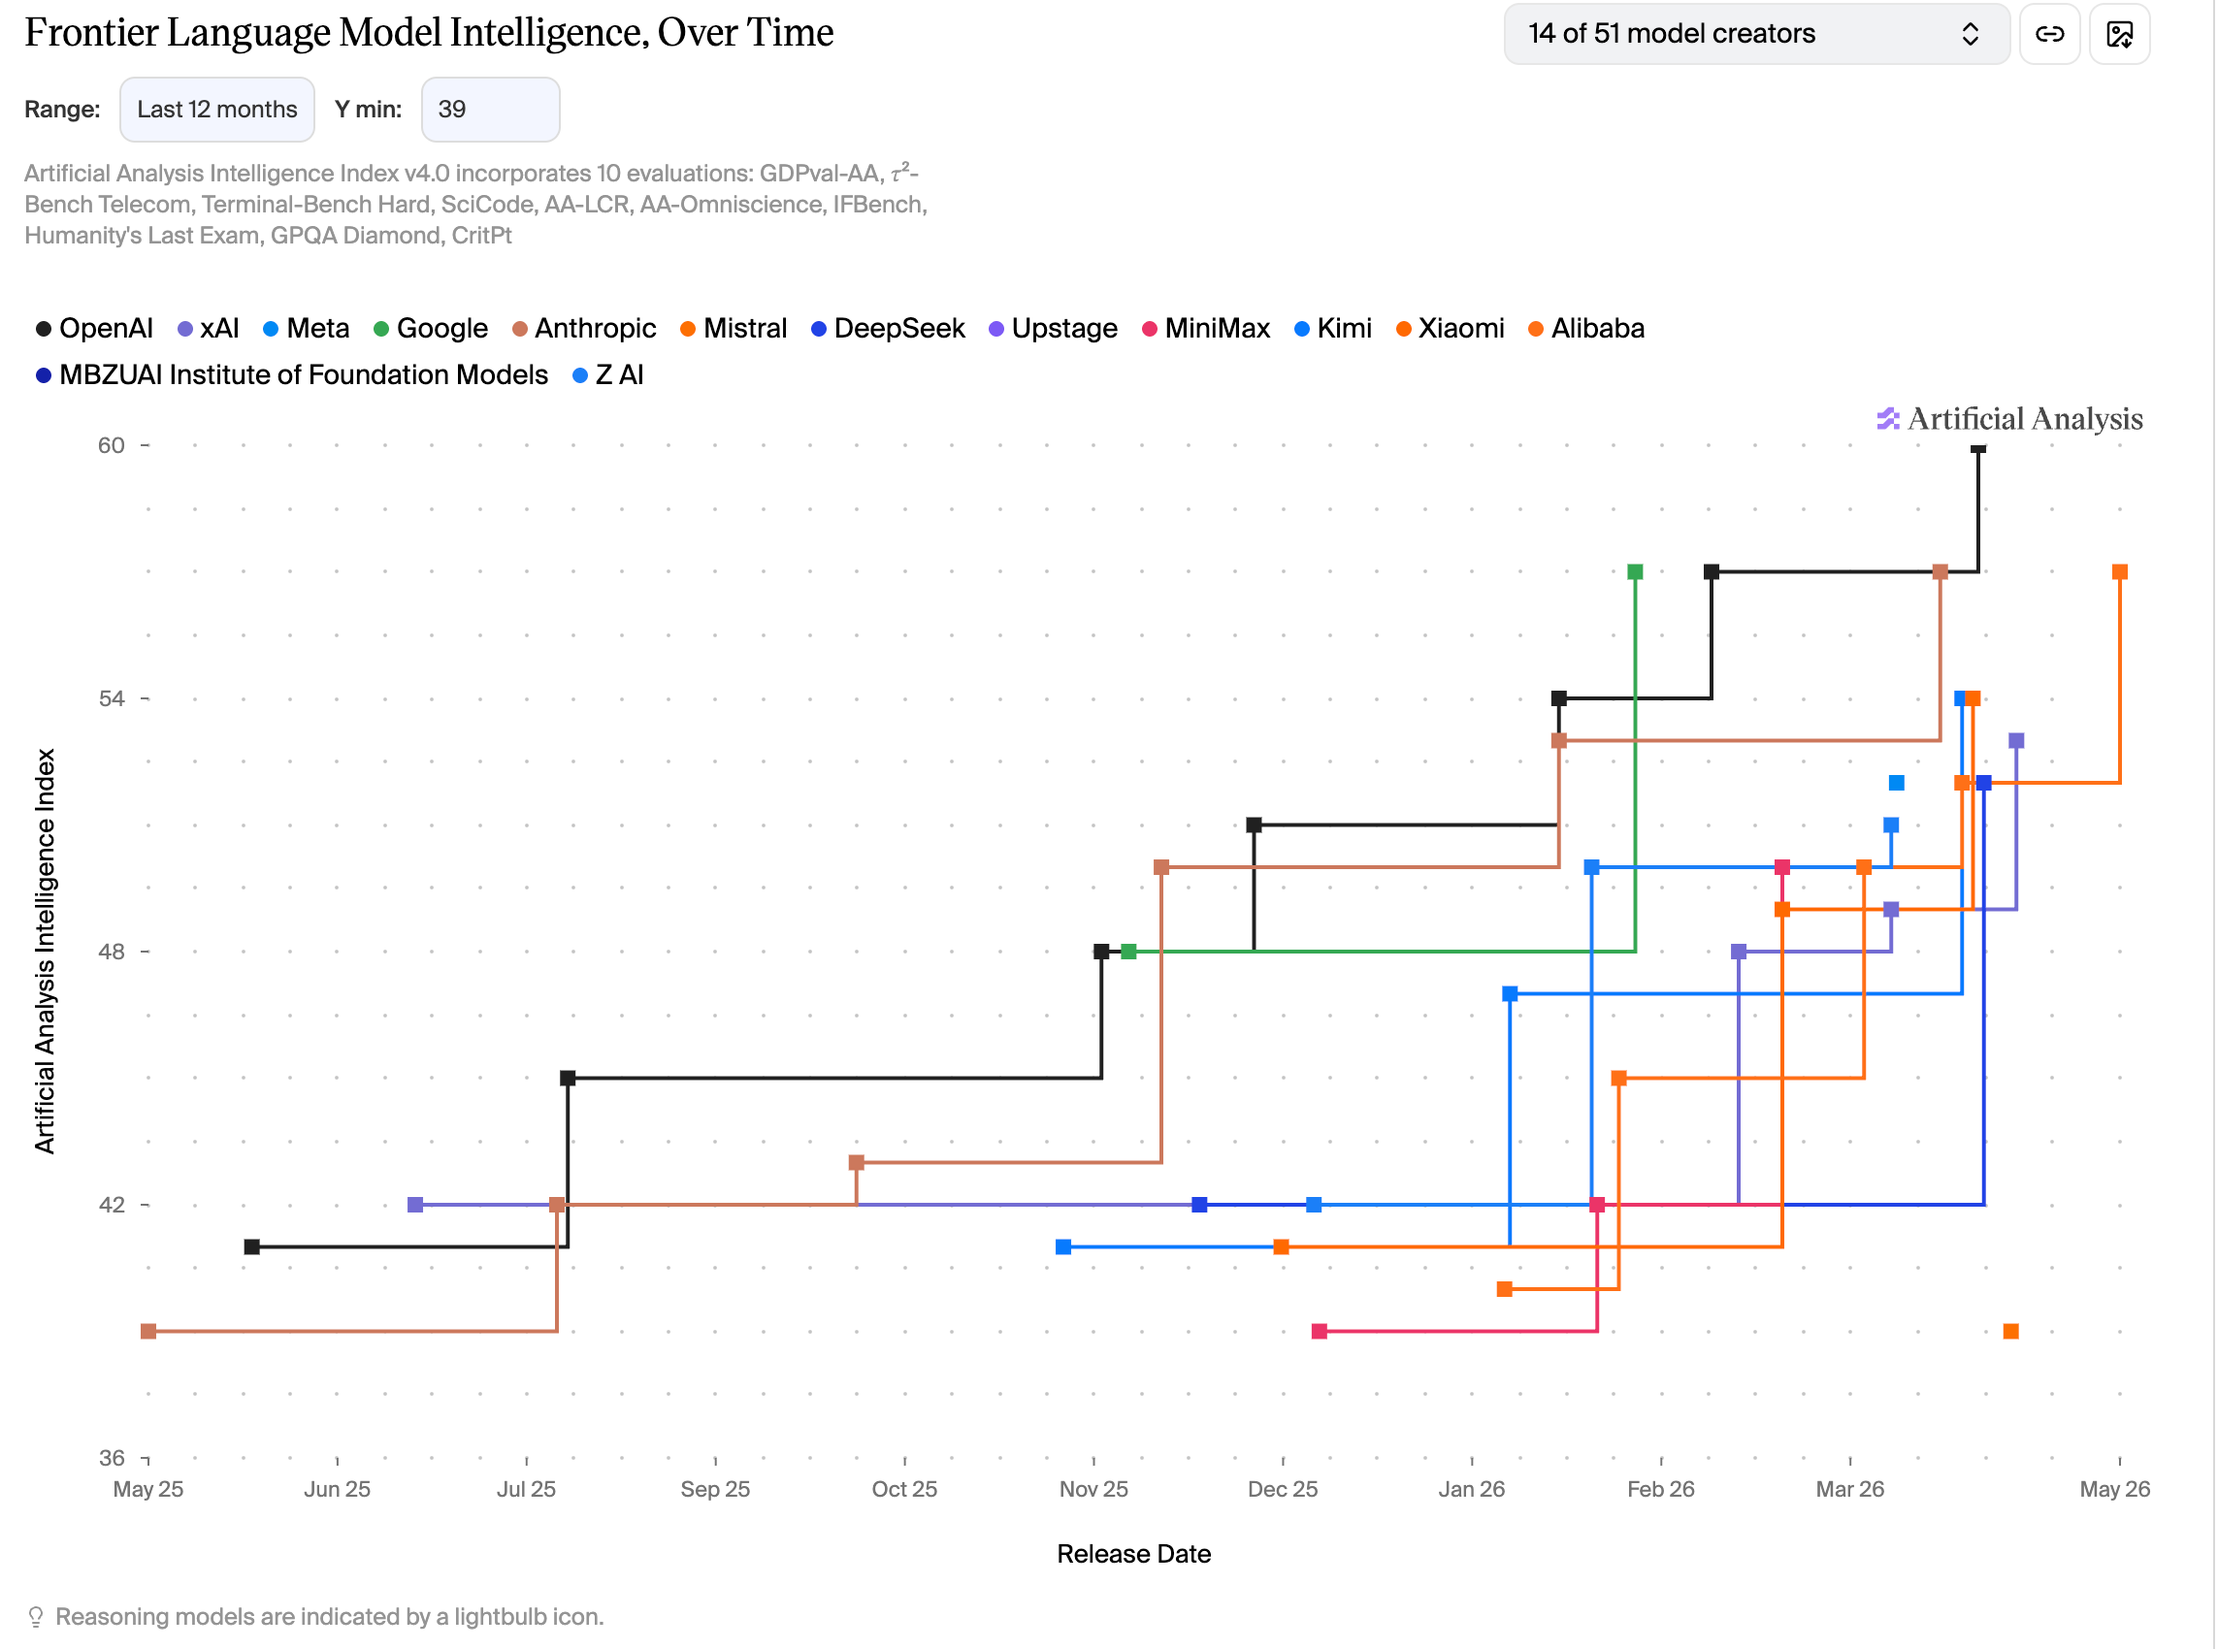
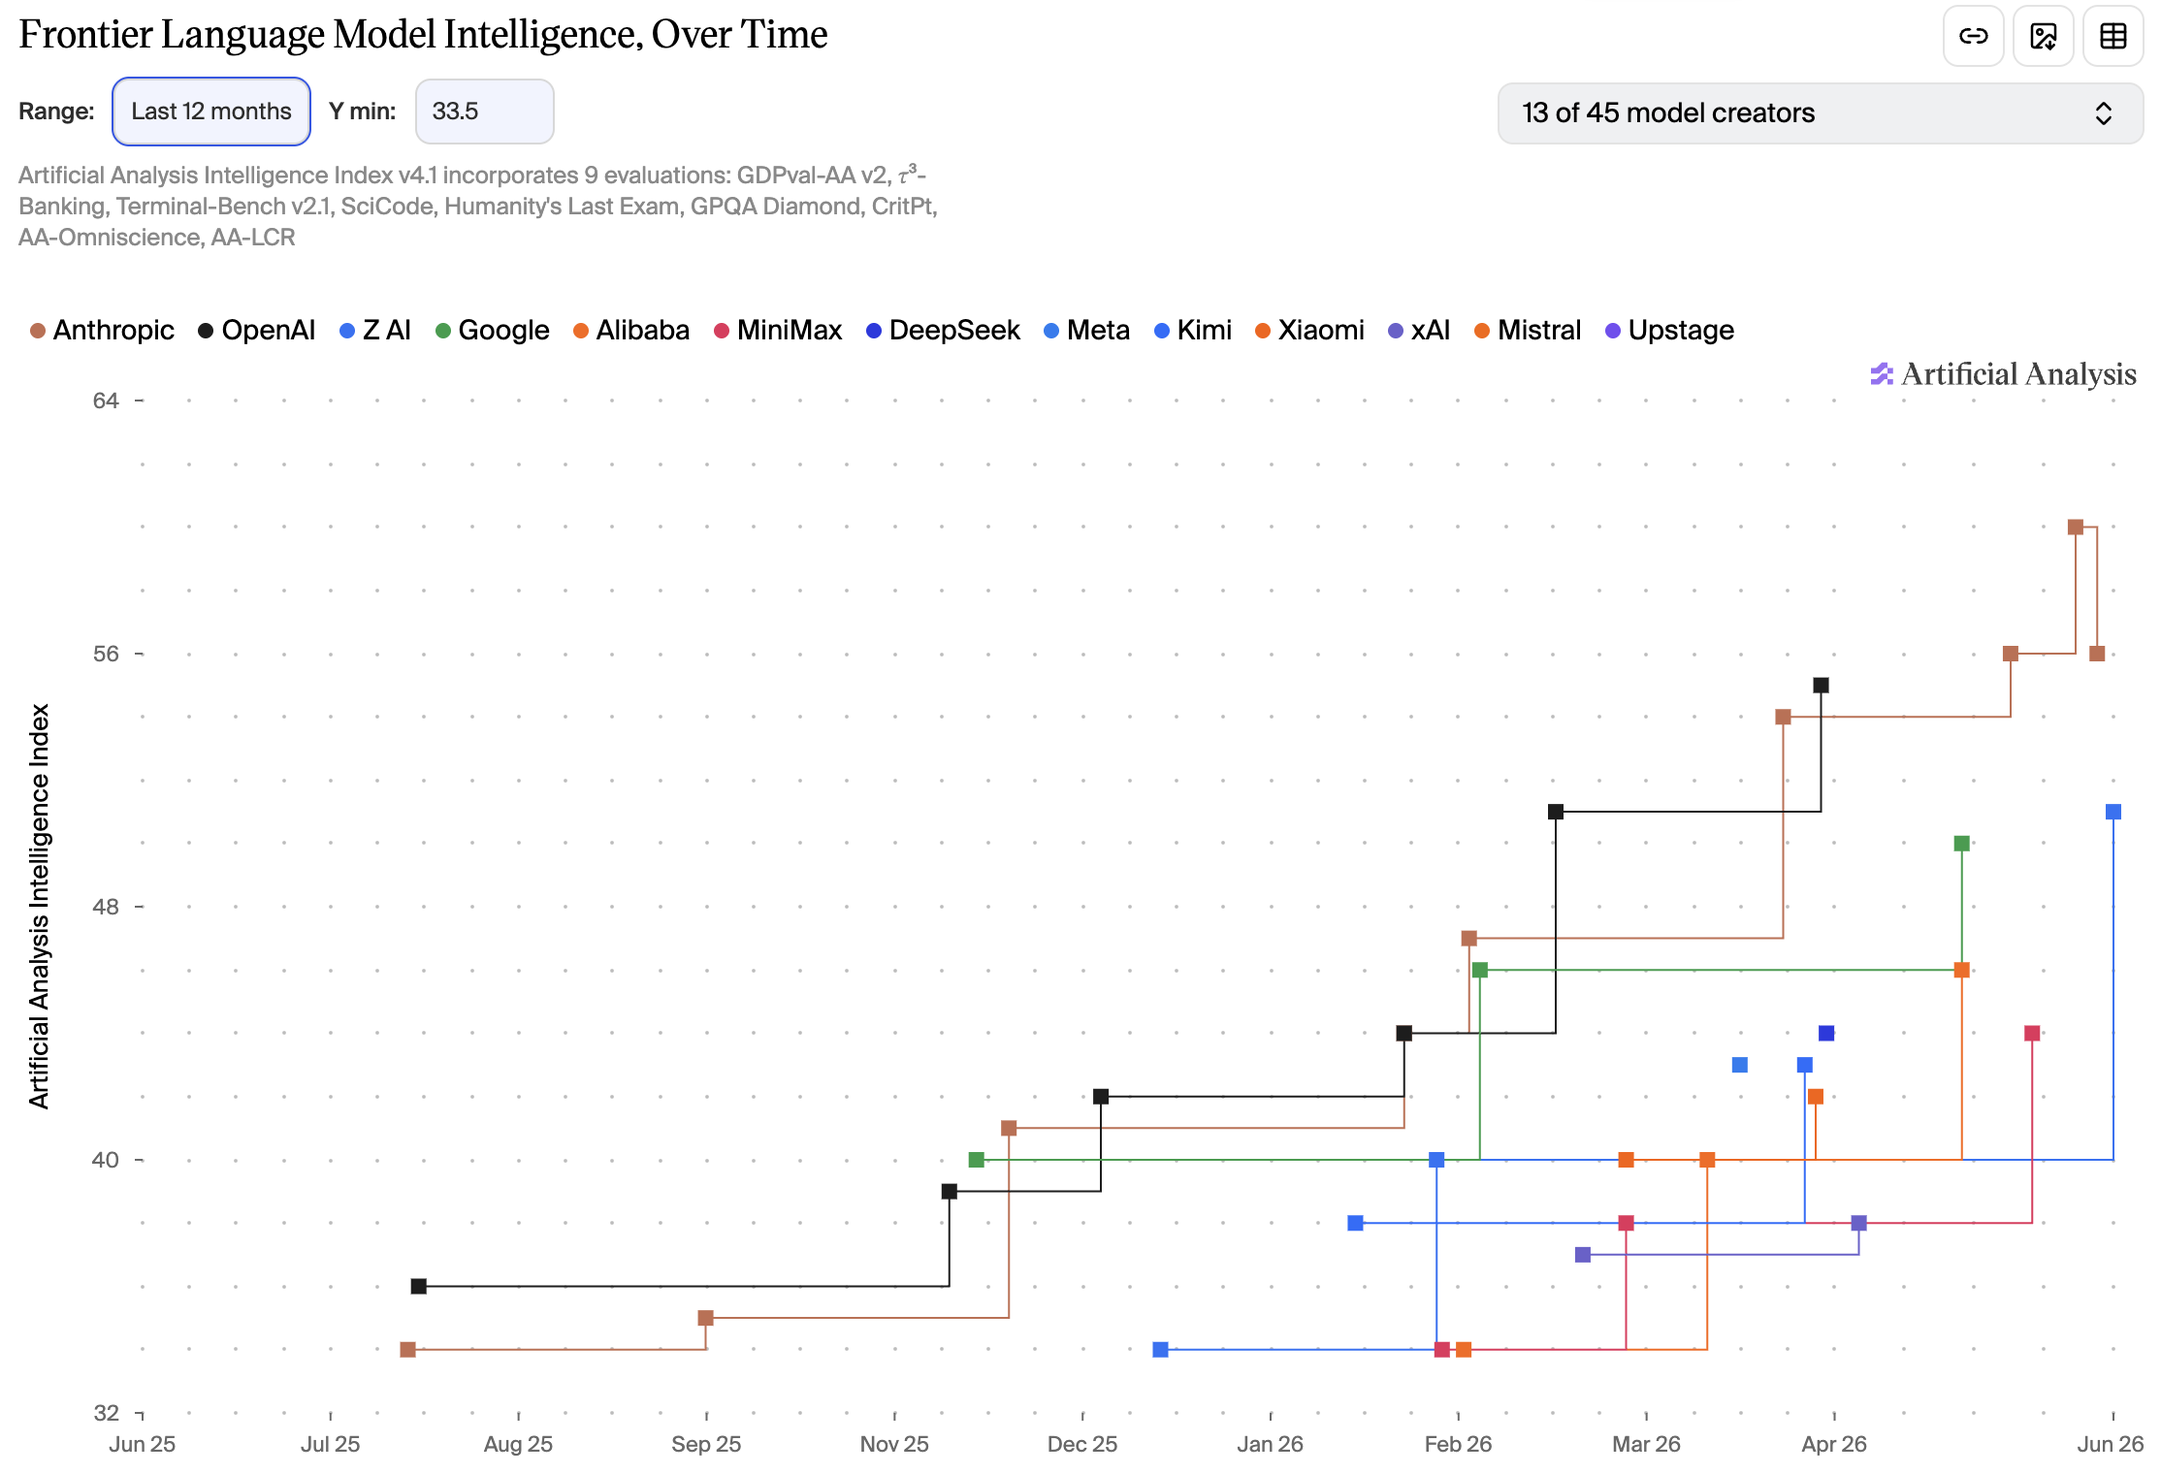
fix: update Y-axis minimum value and improve data filtering logic in userscript

diff --git a/artificialanalysis.js b/artificialanalysis.js
@@ -1,13 +1,13 @@
 // ==UserScript==
 // @name         Artificial Analysis - Frontier Chart Controls
 // @namespace    https://artificialanalysis.ai/
-// @version      2.3
-// @description  Local controls for the Frontier chart: time range / Y-axis range. Defaults to last 3 months, Y-axis 39~max, chart height 700px. Built for the Recharts version.
+// @version      2.5
+// @description  Local controls for the Frontier chart: time range / Y-axis range. Defaults to last 12 months, Y-axis 33.5~max, chart height 600px. Built for the Recharts (v3) version.
 // @match        https://artificialanalysis.ai/*
 // @run-at       document-idle
 // @grant        none
-// @updateURL    https://raw.githubusercontent.com/henrycjchen/artificialanalysis-tampermonkey/main/artificialanalysis.js
-// @downloadURL  https://raw.githubusercontent.com/henrycjchen/artificialanalysis-tampermonkey/main/artificialanalysis.js
+// @downloadURL https://update.greasyfork.org/scripts/579264/Artificial%20Analysis%20-%20Frontier%20Chart%20Controls.user.js
+// @updateURL https://update.greasyfork.org/scripts/579264/Artificial%20Analysis%20-%20Frontier%20Chart%20Controls.meta.js
 // ==/UserScript==
 
 (function () {
@@ -15,8 +15,8 @@
 
   // -------- defaults (edit here) --------
   const CHART_HEIGHT_PX = 600; // set to 0 to keep the site's default height
-  const DEFAULT_RANGE_IDX = 1; // Last 3 months
-  const DEFAULT_Y_MIN = 39; // Y-axis minimum; leave null for auto
+  const DEFAULT_RANGE_IDX = 1; // Last 12 months
+  const DEFAULT_Y_MIN = 33.5; // Y-axis minimum; leave null for auto
   // --------------------------------------
 
   const CHART_HEIGHT = CHART_HEIGHT_PX ? CHART_HEIGHT_PX + "px" : "";
@@ -33,6 +33,7 @@
 
   // ---- state ----
   let originalCreators = null;
+  let originalChartData = null;
   let rangeDays = RANGES[DEFAULT_RANGE_IDX].days;
   let yMin = DEFAULT_Y_MIN;
   let yMax = null;
@@ -74,6 +75,110 @@
       f = f.return;
     }
     return null;
+  };
+
+  // Recharts (v3) keeps the plotted data in its internal Redux store as a
+  // pivoted array of rows ({ x: <timestamp>, [creatorId]: value, ... }) under
+  // state.chartData.chartData. Dispatching filtered creators into the React
+  // hook only changes how many <Line>s render, not their points, so BOTH the
+  // time range and the Y-axis bound have to be applied by rewriting those store
+  // rows: drop rows outside the time window, and strip any value outside
+  // [yMin, yMax] so points beyond the limit are removed rather than merely
+  // clipped by the axis domain.
+  // Tracks the filter currently pushed into the store so we can tell our own
+  // filtered output apart from the site re-pushing the full dataset.
+  let appliedWindowDays = undefined;
+  let appliedYMin = undefined;
+  let appliedYMax = undefined;
+  let appliedRowCount = -1;
+
+  // True when any current row falls outside the time window or holds a value
+  // outside [min, max] — i.e. the store is holding unfiltered data (the site
+  // re-pushed the full set) and we need to re-apply.
+  const rowsViolate = (rows, cutoff, min, max) => {
+    for (const r of rows) {
+      if (cutoff != null && !(typeof r.x === "number" && r.x >= cutoff))
+        return true;
+      if (min == null && max == null) continue;
+      for (const k in r) {
+        if (k === "x") continue;
+        const v = r[k];
+        if (typeof v !== "number") continue;
+        if (min != null && v < min) return true;
+        if (max != null && v > max) return true;
+      }
+    }
+    return false;
+  };
+
+  // Filter the store's chartData rows to the selected time window and Y range,
+  // then push the result back in. Idempotent: a no-op when the store already
+  // holds exactly the current filter's output.
+  const applyDataFilter = (store) => {
+    if (!store) return;
+    const slice = store.getState() && store.getState().chartData;
+    const rows = slice && Array.isArray(slice.chartData) ? slice.chartData : null;
+    if (!rows || !rows.length) return;
+
+    // Capture the fullest (unfiltered) dataset we have seen as the source of
+    // truth; the site re-pushes the complete set on re-render, our own filtered
+    // output is never larger and so never overwrites it.
+    if (!originalChartData || rows.length > originalChartData.length) {
+      originalChartData = rows;
+    }
+
+    let cutoff = null;
+    if (rangeDays != null) {
+      let maxX = 0;
+      for (const r of originalChartData)
+        if (typeof r.x === "number" && r.x > maxX) maxX = r.x;
+      cutoff = maxX - rangeDays * 24 * 3600 * 1000;
+    }
+    const min = typeof yMin === "number" ? yMin : null;
+    const max = typeof yMax === "number" ? yMax : null;
+
+    // Build the desired rows from the full dataset: drop out-of-window rows and
+    // omit out-of-range values so those points stop rendering.
+    const desired = [];
+    for (const r of originalChartData) {
+      if (cutoff != null && !(typeof r.x === "number" && r.x >= cutoff))
+        continue;
+      if (min == null && max == null) {
+        desired.push(r);
+        continue;
+      }
+      const row = { x: r.x };
+      for (const k in r) {
+        if (k === "x") continue;
+        const v = r[k];
+        if (
+          typeof v === "number" &&
+          ((min != null && v < min) || (max != null && v > max))
+        )
+          continue;
+        row[k] = v;
+      }
+      desired.push(row);
+    }
+
+    // Skip when the store already holds our output: same filter as last applied,
+    // matching row count, and no row/value violating the current limits.
+    const paramsUnchanged =
+      rangeDays === appliedWindowDays &&
+      yMin === appliedYMin &&
+      yMax === appliedYMax;
+    if (
+      paramsUnchanged &&
+      rows.length === appliedRowCount &&
+      !rowsViolate(rows, cutoff, min, max)
+    )
+      return;
+
+    appliedWindowDays = rangeDays;
+    appliedYMin = yMin;
+    appliedYMax = yMax;
+    appliedRowCount = desired.length;
+    store.dispatch({ type: "chartData/setChartData", payload: desired });
   };
 
   // Recharts uses an internal Redux store; we patch its dispatch to inject Y-axis domain.
@@ -131,6 +236,9 @@
     let enforcing = false;
     store.subscribe(() => {
       if (enforcing) return;
+      // Re-apply the filter whenever the site re-pushes the full dataset
+      // (its own re-renders reset chartData back to every row).
+      applyDataFilter(store);
       if (yMin == null && yMax == null) return;
       const state = store.getState();
       const yAxis =
@@ -280,8 +388,8 @@
       let maxMs = 0;
       source.forEach((c) =>
         (c.models || []).forEach((m) => {
-          if (!m.release_date) return;
-          const t = new Date(m.release_date).getTime();
+          if (!m.releaseDate) return;
+          const t = new Date(m.releaseDate).getTime();
           if (t > maxMs) maxMs = t;
         }),
       );
@@ -294,19 +402,19 @@
       ...c,
       models: (c.models || []).filter((m) => {
         if (cutoff != null) {
-          if (!m.release_date) return false;
-          if (new Date(m.release_date).getTime() < cutoff) return false;
+          if (!m.releaseDate) return false;
+          if (new Date(m.releaseDate).getTime() < cutoff) return false;
         }
         if (
           numericMin != null &&
-          (typeof m.intelligence_index !== "number" ||
-            m.intelligence_index < numericMin)
+          (typeof m.intelligenceIndex !== "number" ||
+            m.intelligenceIndex < numericMin)
         )
           return false;
         if (
           numericMax != null &&
-          (typeof m.intelligence_index !== "number" ||
-            m.intelligence_index > numericMax)
+          (typeof m.intelligenceIndex !== "number" ||
+            m.intelligenceIndex > numericMax)
         )
           return false;
         return true;
@@ -356,6 +464,7 @@
     if (!store) return false;
     chartStore = store;
     patchReduxStore(store); // idempotent per-store
+    applyDataFilter(store);
 
     applyHeight(svg);
 
@@ -381,6 +490,7 @@
         if (!cur) return;
         chartStore = cur;
         patchReduxStore(cur);
+        applyDataFilter(cur);
         reapplyYAxisDomain();
         applyHeight(s);
       };

diff --git a/README.md b/README.md
@@ -7,7 +7,7 @@ A Tampermonkey userscript that injects local controls into the "Frontier Languag
 ## Features
 
 - **Time range filter**: All time / 12 / 9 / 6 months (defaults to Last 12 months)
-- **Y-axis minimum**: Manually set the floor (default `39`) to make differences between top models easier to read
+- **Y-axis minimum**: Manually set the floor (default `33.5`) to make differences between top models easier to read; points below the floor are removed, not just clipped
 - **Chart height**: Stretched to 600px by default so the curves don't pile up
 - **Recharts-aware**: Patches the internal Redux store to force the Y-axis domain, so Recharts can't silently reset it
 
@@ -24,16 +24,17 @@ Edit the constants at the top of the script:
 ```js
 const CHART_HEIGHT_PX = 600;   // 0 = keep the site's default height
 const DEFAULT_RANGE_IDX = 1;   // index into RANGES, 1 = Last 12 months
-const DEFAULT_Y_MIN = 39;      // null = auto
+const DEFAULT_Y_MIN = 33.5;    // null = auto
 ```
 
 ## How it works
 
 1. Locate the chart SVG under the heading, then walk up the React Fiber tree to find the hook holding the `creators` data and the Recharts Redux store
-2. Wrap the hook's `dispatch` so every data update is re-filtered by the current Range / Y min
-3. Wrap the store's `dispatch` to intercept `cartesianAxis/addYAxis` and replace its `domain` with the custom values, setting `allowDataOverflow: true`
-4. Subscribe to the store and re-apply the domain whenever Recharts overwrites it
-5. Patch the `ResponsiveContainer` `forwardRef` render to override its hard-coded `height` prop
+2. Wrap the hook's `dispatch` to re-filter the `creators` data by the current Range / Y min (controls which model lines appear)
+3. Recharts v3 keeps the actual plotted points in the Redux store (`chartData.chartData`, pivoted rows keyed by creator), so rewrite those rows: drop rows outside the time window and strip values outside the Y range — this removes out-of-range points instead of letting the axis merely clip them
+4. Wrap the store's `dispatch` to intercept `cartesianAxis/addYAxis` and replace its `domain` with the custom values, setting `allowDataOverflow: true`
+5. Subscribe to the store and re-apply both the data filter and the domain whenever Recharts overwrites them
+6. Patch the `ResponsiveContainer` `forwardRef` render to override its hard-coded `height` prop
 
 ## Compatibility
 
